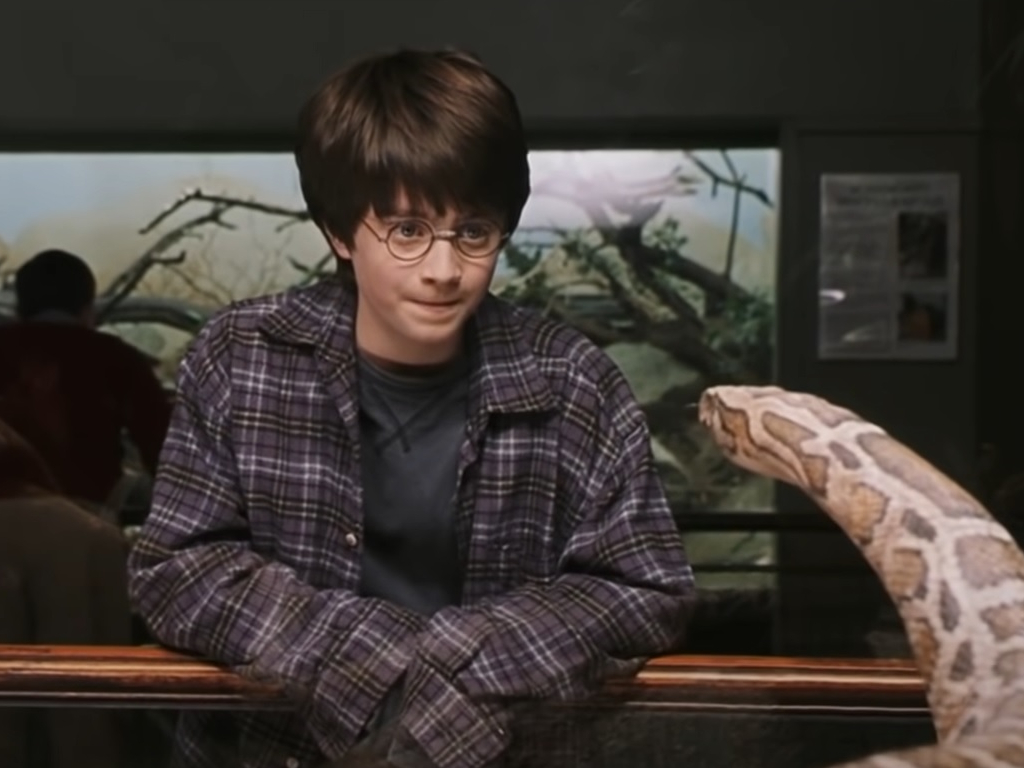
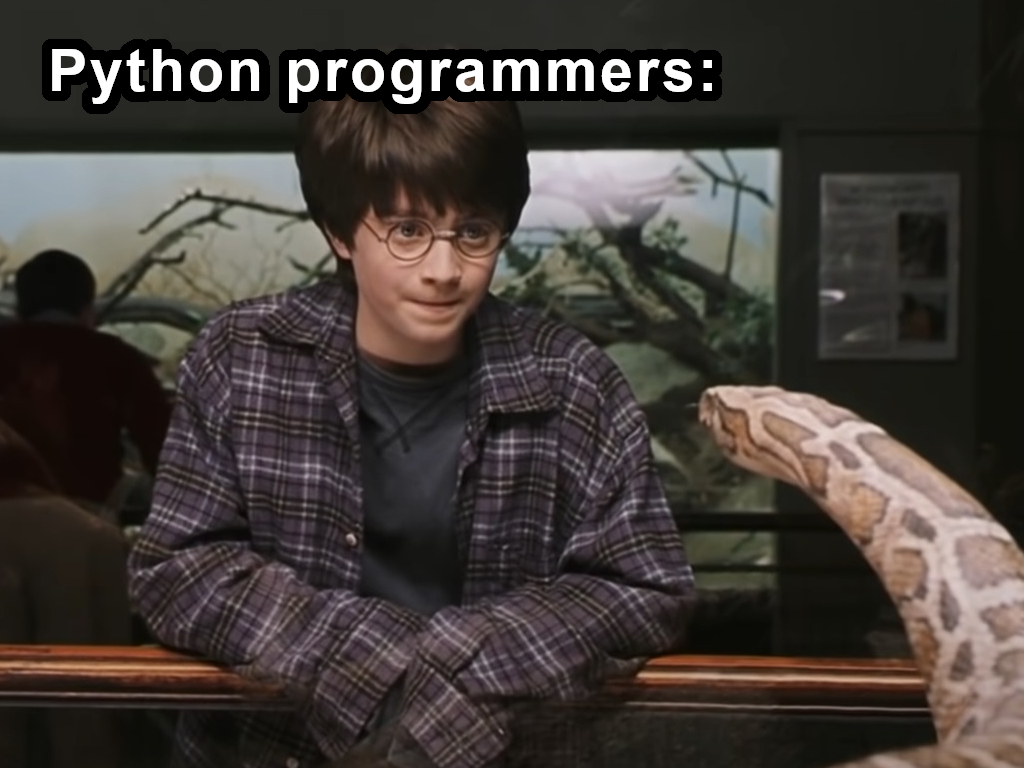
feat: change theme to dark (Wed, Sep 11, 2024 02:19:39 PM)

Changed region(s): [[0.0312, 0.0312, 0.7188, 0.1562]]

diff --git a/cssMemeSlider/style.css b/cssMemeSlider/style.css
@@ -13,6 +13,7 @@ body {
   justify-content: center;
   align-items: center;
   min-height: 100vh;
+  background-color: black;
 }
 
 .wrapper {
@@ -38,6 +39,7 @@ body {
   font-weight: 600;
   font-style: normal;
   font-size: 1.25rem;
+  color: #fff;
 }
 
 label,
@@ -50,6 +52,7 @@ label {
   height: 2rem;
   display: flex;
   align-items: center;
+  justify-content: center;
 }
 
 .text-container {
@@ -70,6 +73,7 @@ label {
   width: 100%;
   height: 1.25rem;
   border-radius: 0.5rem;
+  outline: 0.0625rem whitesmoke solid;
 }
 
 .checkbox-container:has(#pic1:checked) + .text-container .text-1 {
@@ -182,6 +186,23 @@ label {
   width: 100%;
   animation-name: pic4;
   animation-duration: 2s;
+}
+
+input[type="radio"] {
+  width: 1rem;
+  height: 1rem;
+  appearance: none;
+  -webkit-appearance: none;
+  border: 2px solid #99f0e7;
+  border-radius: 50%;
+  background-color: #99f0e7;
+  cursor: pointer;
+  margin: 0;
+}
+
+input[type="radio"]:checked {
+  background-color: black;
+  border: 2px solid #99f0e7;
 }
 
 @media (max-width: 56rem) {

diff --git a/cssMemeSlider/index.html b/cssMemeSlider/index.html
@@ -25,9 +25,9 @@
         </div>
         <div class="text-container">
           <span class="text-1 text">When testing app after minor code change</span>
-          <span class="text-2 text hidden">The best way to learn a new language is to speak with native speakers. Python programmers:</span>
+          <span class="text-2 text hidden">The best way to learn a new language is to speak with native speakers</span>
           <span class="text-3 text hidden">Not everything gets more expensive in Russia</span>
-          <span class="text-4 text hidden">Didn't do anything useful today, again.</span>
+          <span class="text-4 text hidden">Didn't do anything useful today, again</span>
         </div>
         <div class="image-container">
           <div class="meme-image"></div>
